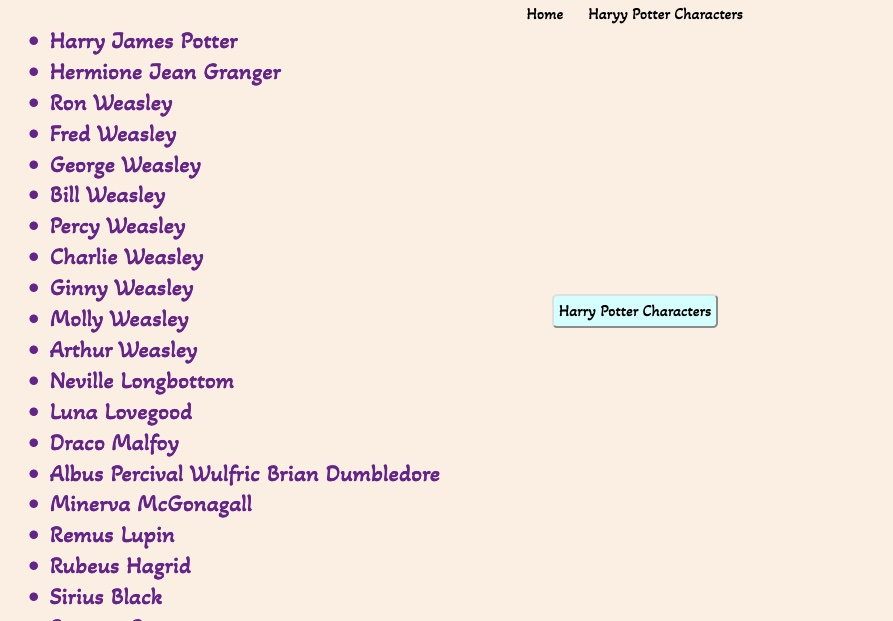
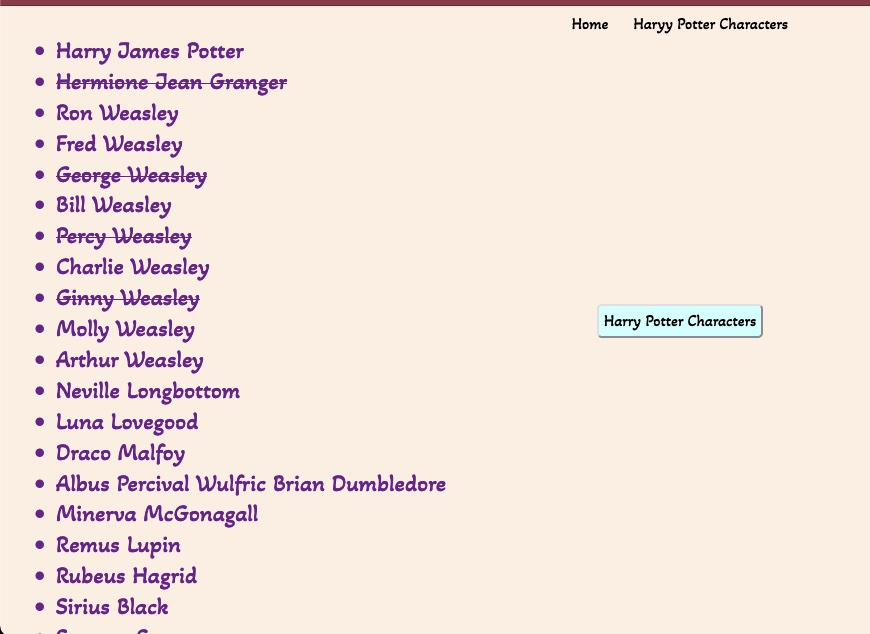
final project 2

Changed region(s): [[0.0, 0.0, 1.0, 1.0], [0.6207, 0.4589, 0.9, 0.5507]]

diff --git a/week 4/Project 2/app1.js b/week 4/Project 2/app1.js
@@ -12,7 +12,11 @@ function getData() {
                 div.textContent = array;
                 div.setAttribute("class", "data_elements")
                 document.body.appendChild(div);
+                div.addEventListener('click', function() {
+                    div.style.textDecoration = "line-through"
+                });
             };
+
         })
         .catch(error => console.log(error));
 };

diff --git a/week 4/Project 2/app2.js b/week 4/Project 2/app2.js
@@ -12,6 +12,9 @@ function getData() {
                 div.textContent = array;
                 div.setAttribute("class", "data_elements")
                 document.body.appendChild(div);
+                div.addEventListener('click', function() {
+                    div.style.textDecoration = "line-through"
+                });
             };
         })
         .catch(error => console.log(error));
